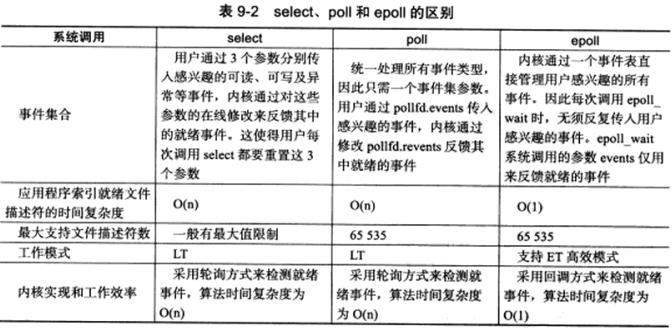
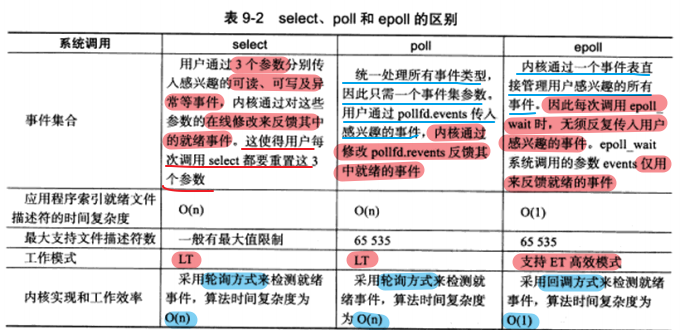
更新笔记

diff --git a/chapter9/第 9 章：IO 复用.md b/chapter9/第 9 章：IO 复用.md
@@ -70,7 +70,7 @@ struct pollfd
 };
 ```
 
-poll 支持的事件类型如下：
+**poll 支持的事件类型如下：**
 
 ![image-20230423154050501](Image/poll事件类型1.png)
 
@@ -82,11 +82,40 @@ poll 支持的事件类型如下：
 
 ## 9.3.1 内核时间表
 
+epoll 是 Linux 特有的 IO 复用函数。
+
+* 1）epoll 是使用一组函数来完成任务，而不是使用单个函数。
+* 2）epoll 把用户关心的文件描述符上的事件放在内核里面的一个事件表中，不需要像 select 和 poll 那样每次调用都要重复传入文件描述符集或者事件集。**但是 epoll 需要使用一个额外的文件描述符，来唯一标识内核中的这个事件表。**这个文件描述符由 epoll_create 来创建。
+
 ```c++
 #include <sys/epoll.h>
+/* 参数 size 现在并不起作用，只是给内核一个提示，告诉这个事件表需要多大。
+该函数返回的文件描述符将作用其他 epoll 系统调用的第一个参数，以指定要访问的内核事件表。 */
 int epoll_create(int size);
+
+/* epoll_ctl 是用来操作 epoll 的内核事件表的：fd 参数用来表示要操作的文件描述符，op 参数则用来指定操作类型，event 参数用来指定事件。 */
 int epoll_ctl(int epfd,int op,int fd, struct epoll_event* event);
+
+/* events 成员描述事件类型 */
+/* 表示 epoll 事件类型的宏是在 poll 对应的宏前加上"E"，比如 epoll 的数据可读事件是 EPOLLIN，但是 epoll 有两个额外的事件类型--EPOLLET 和 EPOLLONESHOT。 */
+struct epoll_event
+{
+	__uint32_t events;	// epoll 事件
+    epoll_data_t data;	// 数据
+};
+
+typedef union epoll_data
+{
+    void* ptr;
+    int fd;
+    uint32_t u32;
+    uint64_t u64;
+}epoll_data_t;
 ```
+
+op 参数的操作类型有如下 3 种：
+
+![image-20230423200854105](Image/操作类型参数.png)
 
 
 
@@ -94,6 +123,8 @@ int epoll_ctl(int epfd,int op,int fd, struct epoll_event* event);
 
 ```c++
 #include <sys/epoll.h>
+/* 函数功能：表示在一段超时时间内，等待一组文件描述符上的事件。
+参数意义：timeout 参数指定 poll 的超时，单位是毫秒。maxevents 参数指定最多监听多少个事件，它必须大于 0。epoll_wait 如果检查到事件，就将所有就绪事件从内核事件表中，也就是 epfd 参数指定的内核事件表复制到它的第二个参数 events 指向的数组中。 */
 int epoll_wait(int epfd,struct epoll_event* events, int maxevents, int timeout);
 ```
 
@@ -101,15 +132,24 @@ int epoll_wait(int epfd,struct epoll_event* events, int maxevents, int timeout);
 
 ## 9.3.3 LT 和 ET 模式
 
+epoll 对文件描述符的操作有两种模式：LT（Level Trigger，电平触发） 和 ET（Edge Trigger，边沿触发） 模式。
 
+* 1）**LT 模式**是默认的工作方式，这种模式下 epoll 相当于是一个效率较高的 poll。当往 epoll 内核事件表中注册一个文件描述符上的 **EPOLLET** 事件时，epoll 将以 ET 模式来操作该文件描述符。**ET 模式是 epoll 的高效工作模式。**
+* 2）**LT 模式**是指当 epoll_wait 检查到其上有事件发生，并将此事件通知给应用程序后，**应用程序可以不立即处理该事件**。这样当应用程序下一次调用 epoll_wait 时，epoll_wait 还是会再次向应用程序告知此事件，**直到该事件被处理。**
+* 3）**ET 模式**是指当 epoll_wait 检测到其上有事件发生并将此事件通知应用程序后，**应用程序必须立即处理该事件**。因此，ET 模式很大程度上降低了同一个 epoll 事件被重复触发的次数，因此效率要比 LT 模式高。
 
 ## 9.3.4 EPOLLONESHOT 事件
 
+**使用 epoll 的 EPOLLONESHOT 事件来让 socket 连接在任一时刻都只被一个线程处理。**
 
+<font color=blue>对于注册了 EPOLLONESHOT 事件的文件描述符，OS 最多触发其上注册的一个可读、可写或者异常事件，且触发一次，除非使用 epoll_ctl 函数重置该文件描述符上注册的 EPOLLONESHOT 事件。</font>
 
 
 
 # 9.4 三组 IO 复用函数的比较
 
-![image-20230421164352421](Image/select、poll和epoll的区别.png)
+<font color=alice>select、poll 和 epoll 这三组 IO 复用系统调用都能同时监听多个文件描述符，它们将等待由 timeout 参数指定的超时时间，直到一个或者多个文件描述符上有事件发生时返回，返回值是就绪的文件描述符的数量。返回 0 表示没有事件发生。</font>
 
+**三者的区别如下：**
+
+![image-20230501214733352](Image/select、poll和epoll的区别.png)
